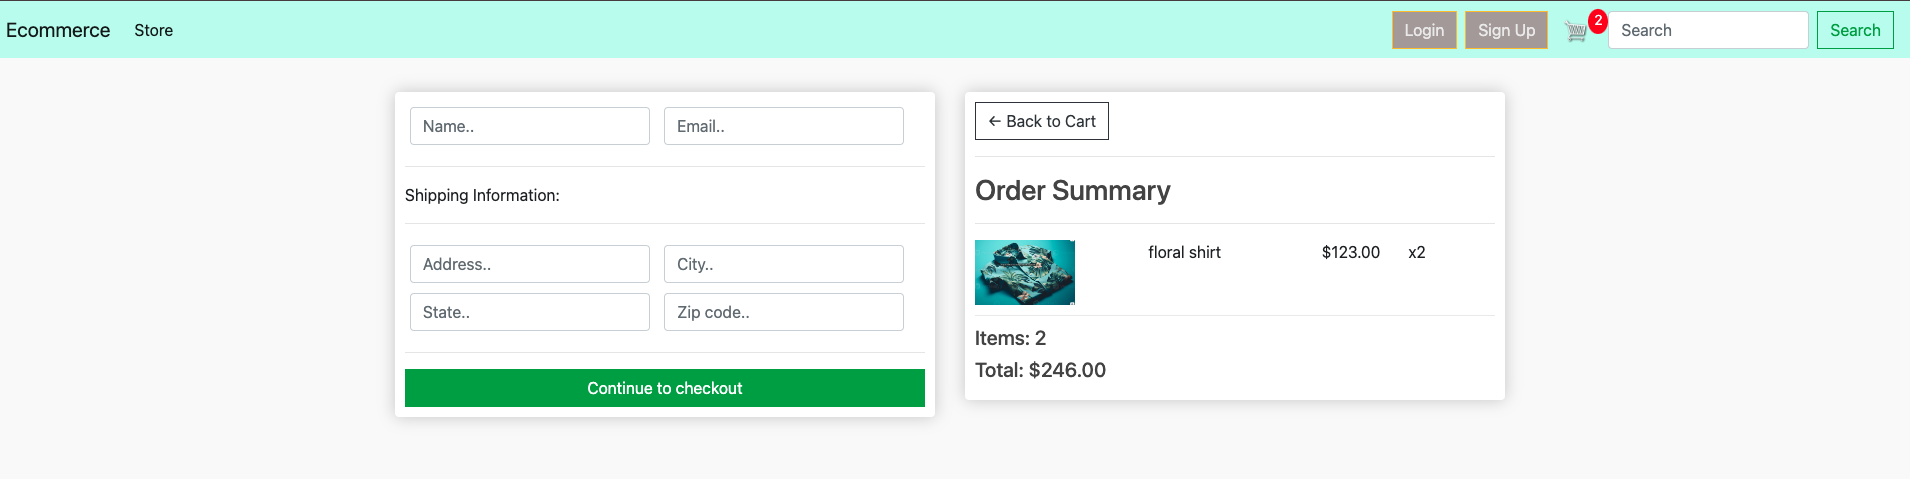
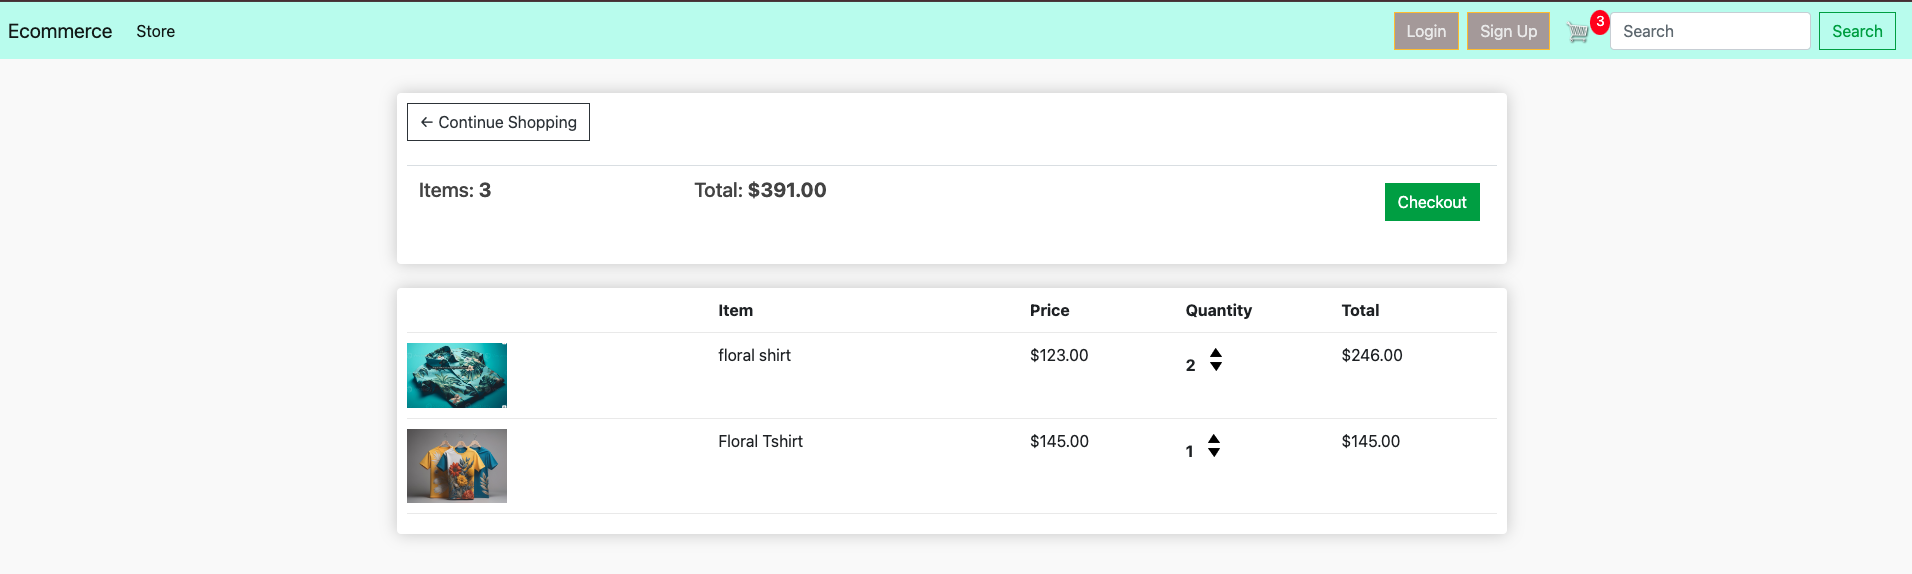
added images for functionality

diff --git a/README.md b/README.md
@@ -115,10 +115,9 @@ All functionality and development of this project were managed using GitHub whic
 - **User Data Management:** Safeguard user data and ensure smooth navigation through features like customer profiles and order history by the admin panel.
 
 ## Design
-
 #### Colours
-![Colours Palete](./static/images/color_palete.png)
 
+![Colours Palete](./static/images/color_palete.png)
 * The colour scheme is kept simple by opting for a combination of black set against the image
 background and black text against the white background. For the navbar was set as a light green background
 with yellow stripes on login/signup button and and green used in the seach border with white in the search bar.
@@ -151,58 +150,58 @@ Wireframes for this project can be located [here](WIREFRAMES.md)
 
 ### Search Box
 
-![Search Box](./assets/readme/features/tasty_blog_search_page.jpg)
-
-* In this box, the users can search by inputting a keyword in the search tool. This allows the user to try and find 
-  the recipe they are looking for.
+* In this box, the users can search by inputting a keyword in the search tool. This allows the user to try and find the products they are looking for.
 
 ### Search Results Page
+![Search Results Page](./static/images/searchresultpage.png)
 
-![Search Results Page](./assets/readme/features/tasty_blog_search_results_page.jpg)
-
-* On the Search Results Page, users can see the recipes found by their search.  When their recipe is located, the user can go to the 
-  Post Details Page by clicking on the card result.
-
-### Search Results - Input Empty
-
-![Search Results - Input Empty](./assets/readme/features/tasty_blog_search_results_empty_page.jpg)
-
-* On the Search Results Page - Input Empty, users will see this message if their search returns with an empty input.
+* On the Search Results Page, users can see the products found by their search.  When their product is  located
 
 ### Search Results - No Results Found
-
-![Search Results - No Results Found](./assets/readme/features/tasty_blog_search_results_null_page.jpg)
+![Search Results - No Results Found](./static/images/search_noresult.png)
 
 * On the Search Results Page - No Results Found, users will see this message if there is nothing found for the search.
 
+ ## Login and Signup Pages
+**Login:** Allows existing users to sign in with their credentials to access personalized features like managing their cart.
+**Signup:** Enables new users to create an account by providing basic information (name, email, and password).
+Form validation: Ensures that users enter valid information during login or signup.
+
 ### Signup Page
 
-![Signup Page](./assets/readme/features/tasty_blog_signup_page.jpg)
+![Signup Page](./static/images/signup.png)
 
-* On the Signup Page, a new user can sign up for the Tasty Blog website by filling out and then submitting the form.
+* On the Signup Page, a new user can sign up for the the ecommerce website by filling out and then submitting the form.
 
 ### Login Page
 
-![Login Page](./assets/readme/features/tasty_blog_login_page.jpg)
+![Login Page](./static/images/login.png)
 
-* On the Login Page, users can log in to the website by inputting the username and password and have access 
-  to website services for a user registered.
+* On the Login Page, users can log in to the website by inputting the username and password and have accessto website services for a user registered which will give them the ability to add to cart and remove items from cart.
 
-### Logout Page
+### Cart Page
+![Cart page](./static/images/cartpage.png)
+**View cart items:** Displays all the items the user has added to their cart, including quantities and total prices.
+**Update cart:** Allows users to modify the quantity of items in the cart through updown arrow.
+**View cart totals:** Shows the total number of items and the total cost of the items in the cart.
 
-![Logout Page](./assets/readme/features/tasty_blog_logout_page.jpg)
+## Checkout Page
+![Checkout page](./static/images/checkout.png)
+**Review order:** Displays a summary of the cart with items, quantities, and total cost.
+**Enter shipping details:** Provides a form for users to input shipping information.
+**Complete purchase:** Confirms the order and processes payment, marking the order as complete.
+**Be able to go back to cart** allows functionality to be able to go back to cart to update orderItems
 
-* On the Logout Page, users can confirm that they wish to exit the website.
+### Store page
 
-### User Profile Page
+![User Profile Page](./static/images/storepage.png)
 
-![User Profile Page](./assets/readme/features/tasty_blog_user_profile_page.jpg)
+**Product Display:** Lists all available products in the store, showing key details such as the product name, price, and image.
+**Add to Cart:** Allows users to add products to their cart. For authenticated users, items are added to their account's cart. For non-logged-in users, a temporary cart is created using cookies.
+**Product Details:** displaying product price, name and images
 
-* On the Profile Page, users have access to their own information and can update their user name, email and profile image.
 
 ### Navbar
-
-![Navbar](./assets/readme/features/tasty_blog_navbar.jpg)
 
 * The navigation bar is present at the top of every page and houses all links to the various other pages.
 * The options to Register or Log in will change to the option to log out once a user has logged in.
@@ -210,47 +209,13 @@ Wireframes for this project can be located [here](WIREFRAMES.md)
 * A search icon is nested in the navbar and once clicked it will open the search box.
 * The navbar is fully responsive, collapsing into a hamburger menu when the screen size becomes smaller.
 
-![Navbar](./assets/readme/features/tasty_blog_navbar_dropdown_menu.jpg)
-* In the navbar users can access the categories list by clicking on the dropdown menu.
-
-### Footer
-
-![Footer](./assets/readme/features/tasty_blog_footer.jpg)
-* On the website footer, users can see basic information about the blog such as contact, social media, 
-  copyright, and a quote about food recipes.
-
-## Messages and Interaction With Users
-
-* Some interactive messages were added to the project to make the navigation on the website easier and to improve the
-user's experience.
-
-### Sign up
-
-![Sign up](./assets/readme/features/interactive_messages/tasty_blog_user_interaction_signup.jpg)
-
-* When users sign up to the website they will see a message at the top of the page saying "Successfully signed in as
-(username)".
-
-### Login
-
-![Login](./assets/readme/features/interactive_messages/tasty_blog_user_interaction_login.jpg)
-
-* When users sign in to the website they will see a message at the top of the page saying "Successfully signed in as
-(username)".
-
 ## Admin Panel/Superuser
-![No Search Found](./assets/readme/extras/tasty_blog_superuser.jpg)
-
-* On the Admin Panel, as an admin/superuser I have full access to CRUD functionality so I can view, create, edit and
-delete the following ones:
-1. Posts
-2. Comments
-3. Author
-4. Categories
-5. Profiles
-6. Books
-   
-*As admin/superuser I can also approve comments, approve posts and change the status and give other permissions to the users.<br>
+**Product management:** Admin can add, update, or delete products in the store.
+**Order management:** Admin can view, edit, or complete customer orders.
+**Customer management:** Admin can view and manage customer information and associated orders.
+![Admin Create Item](./static/images/admin_add.png)
+![Admin Update Item](./static/images/admin_changed.png)
+![Admin Delete Item](./assets/readme/extras/tasty_blog_superuser.jpg)
 
 ## Technologies Used
 
